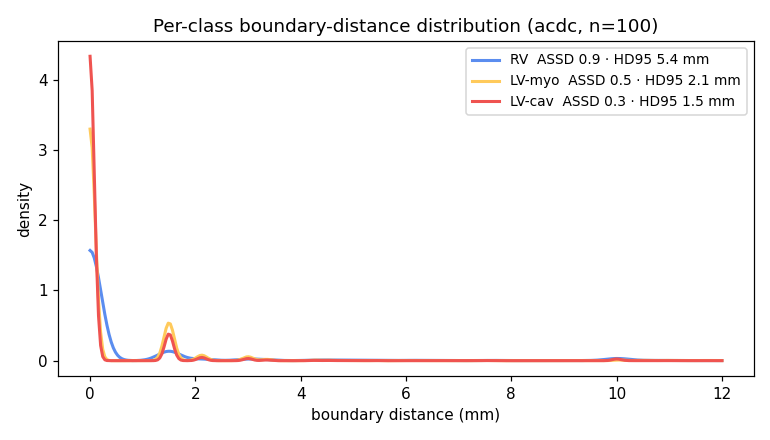
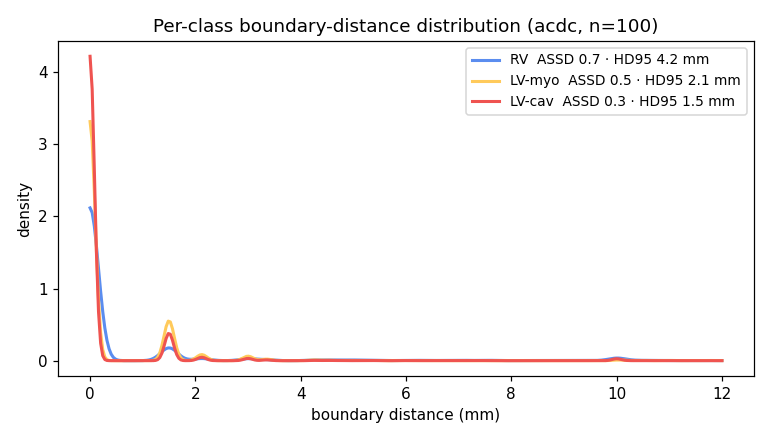
feat: early stopping + best-checkpoint; promote (RV 0.89, EF MAE 6.3%)
Per-epoch batched val-Dice drives early stopping (128 ceiling, patience 20, keep best). Answers
the epoch question empirically instead of hardcoding: best val at epoch ~95 (>80, <128), stopped
at 115. Promoted -> beats the 80ep flagship: mean 0.893->0.896, RV 0.881->0.892, EF MAE 6.7->6.3%,
bias -6.0->-5.6%, LoA +-19->+-15, RV HD95 5.4->4.2mm. Now ~1 Dice pt / 0.8 EF pts behind nnU-Net.

ONNX re-exported, web + plots regenerated, all tables synced. train.py: epochs default 128 (ceiling)
+ --patience; per-epoch val_dice logged.

diff --git a/cardioseg/training/train.py b/cardioseg/training/train.py
@@ -23,8 +23,27 @@ def _registry():
     }
 
 
-def train_seg(dataset="acdc", epochs=40, batch=32, lr=1e-3, size=256, n_patients=0,
-              val_frac=0.2, seed=0, device=None, out_dir=None, test=None, workers=6):
+def _val_dice(model, val_dl, device) -> float:
+    """Fast batched mean foreground Dice (pooled over val slices, no TTA) — the early-stop signal."""
+    import torch
+    import numpy as np
+
+    inter = {c: 0.0 for c in (1, 2, 3)}
+    denom = {c: 0.0 for c in (1, 2, 3)}
+    model.eval()
+    with torch.no_grad():
+        for x, y in val_dl:
+            x, y = x.to(device), y.to(device)
+            pred = model(x).argmax(1)
+            for c in (1, 2, 3):
+                p, g = pred == c, y == c
+                inter[c] += 2.0 * (p & g).sum().item()
+                denom[c] += (p.sum() + g.sum()).item()
+    return float(np.mean([inter[c] / denom[c] if denom[c] else 0.0 for c in (1, 2, 3)]))
+
+
+def train_seg(dataset="acdc", epochs=128, batch=32, lr=1e-3, size=256, n_patients=0,
+              val_frac=0.2, seed=0, device=None, out_dir=None, test=None, workers=6, patience=20):
     import numpy as np
     import torch
     from torch.utils.data import DataLoader
@@ -55,11 +74,15 @@ def train_seg(dataset="acdc", epochs=40, batch=32, lr=1e-3, size=256, n_patients
     dl = DataLoader(train_ds, batch_size=batch, shuffle=True, drop_last=True,
                     num_workers=workers, pin_memory=pin,
                     persistent_workers=workers > 0)   # cheap per-item path now -> GPU stays fed
+    val_dl = DataLoader(val_ds, batch_size=batch, num_workers=workers, pin_memory=pin)
     model = build_unet(spatial_dims=2, out_channels=4).to(device)
     loss_fn = dice_ce_loss()
     opt = torch.optim.Adam(model.parameters(), lr)
     scaler = torch.amp.GradScaler("cuda", enabled=pin)   # mixed precision
 
+    # `epochs` is a ceiling — early stopping keeps the best-val checkpoint and bails when val
+    # plateaus, so the heavy-aug "needs more epochs" question is answered per-run, not hardcoded.
+    best_dice, best_state, bad = -1.0, None, 0
     for ep in range(epochs):
         t0 = time.perf_counter()
         model.train()
@@ -77,7 +100,20 @@ def train_seg(dataset="acdc", epochs=40, batch=32, lr=1e-3, size=256, n_patients
             scaler.step(opt)
             scaler.update()
             tot += loss.item()
-        print(f"epoch {ep:2d}  train_loss {tot/len(dl):.4f}  ({time.perf_counter()-t0:.1f}s)")
+        vd = _val_dice(model, val_dl, device)                  # fast batched slice-Dice (no TTA)
+        improved = vd > best_dice + 1e-4
+        if improved:
+            best_dice, bad = vd, 0
+            best_state = {k: v.detach().cpu().clone() for k, v in model.state_dict().items()}
+        else:
+            bad += 1
+        print(f"epoch {ep:2d}  train_loss {tot/len(dl):.4f}  val_dice {vd:.4f}"
+              f"{' *' if improved else ''}  ({time.perf_counter()-t0:.1f}s)")
+        if bad >= patience:
+            print(f"early stop @ epoch {ep} (no val gain for {patience}); best val_dice {best_dice:.4f}")
+            break
+    if best_state is not None:
+        model.load_state_dict(best_state)                      # evaluate/ship the best, not the last
 
     print(f"\n===== VALIDATION ({dataset}) =====")
     dice_per_class, ef_rows = validate(model, val_dirs, size, device, loader=loader, cache_ns=ns)
@@ -105,7 +141,7 @@ def train_seg(dataset="acdc", epochs=40, batch=32, lr=1e-3, size=256, n_patients
 
 
 # Back-compat wrapper (README + tooling call this).
-def train_acdc(epochs=40, batch=32, lr=1e-3, size=256, n_patients=0,
+def train_acdc(epochs=128, batch=32, lr=1e-3, size=256, n_patients=0,
                val_frac=0.2, seed=0, device=None, out_dir="runs/acdc"):
     return train_seg("acdc", epochs=epochs, batch=batch, lr=lr, size=size,
                      n_patients=n_patients, val_frac=val_frac, seed=seed,
@@ -118,7 +154,8 @@ if __name__ == "__main__":
     ap.add_argument("--dataset", choices=["acdc", "mnm2"], default=None)
     ap.add_argument("--test", choices=["acdc", "mnm2", "none"], default="none",
                     help="held-out cross-dataset test set")
-    ap.add_argument("--epochs", type=int, default=40)
+    ap.add_argument("--epochs", type=int, default=128, help="ceiling; early stopping ends sooner")
+    ap.add_argument("--patience", type=int, default=20, help="early-stop patience (epochs w/o val gain)")
     ap.add_argument("--batch", type=int, default=32)
     ap.add_argument("--workers", type=int, default=6, help="DataLoader workers (0=main proc)")
     ap.add_argument("--n-patients", type=int, default=0, help="0=all")
@@ -132,4 +169,5 @@ if __name__ == "__main__":
     else:
         test = None if args.test == "none" else args.test
         train_seg(ds, epochs=args.epochs, batch=args.batch, workers=args.workers,
-                  n_patients=args.n_patients, seed=args.seed, out_dir=args.out, test=test)
+                  n_patients=args.n_patients, seed=args.seed, out_dir=args.out, test=test,
+                  patience=args.patience)

diff --git a/README.md b/README.md
@@ -35,23 +35,24 @@ set up for **domain generalization**: trained on multi-vendor **M&M-2** (360 sub
 
 ### Ejection fraction — the clinical output
 EF is the number a clinician acts on, so it's the result that matters. Cross-dataset
-(M&M-2 → ACDC, with heavy augmentation + largest-CC + test-time augmentation): **MAE 6.7%**,
-bias **−6.0%** (systematic underprediction), 95% LoA [−25, +13]. The chambers are right;
+(M&M-2 → ACDC, with heavy augmentation + early stopping + largest-CC + TTA): **MAE 6.3%**,
+bias **−5.6%** (systematic underprediction), 95% LoA [−21, +9]. The chambers are right;
 absolute volumes drift as calibration shifts across centres.
 
 ![EF Bland–Altman — M&M-2 model on held-out ACDC: error distribution + bias / 95% LoA](cardioseg/docs/media/ef_bland_altman.png)
 
-**Not clinically usable yet** — MAE 6.7% and LoA ±19 are still past the ±5% clinical bar. The
-plot splits the error in two: a systematic **−6.0% bias** (the curve sits left of zero —
+**Not clinically usable yet** — MAE 6.3% and LoA ±15 are still past the ±5% clinical bar. The
+plot splits the error in two: a systematic **−5.6% bias** (the curve sits left of zero —
 correctable) and a **spread** (tightened by the work below). EF is a *ratio* of two volumes,
-so it magnifies per-frame segmentation error — the masks are good (Dice 0.89), the derived number isn't.
+so it magnifies per-frame segmentation error — the masks are good (Dice 0.90), the derived number isn't.
 
 Paths from here, roughly in effort order:
 - ✅ **Largest-CC postprocessing** (applied) — dropping stray false-positive islands cut EF MAE
   9.4 → 8.2%, bias −8.9 → −7.2%, and collapsed the boundary HD (RV 191 → 59 mm). Free, no retrain.
 - ✅ **Test-time augmentation** (applied) — averaging over in-plane flips. Inference-time, no retrain.
-- ✅ **Heavy augmentation** (applied) — wider geometry + vendor-style intensity jitter (gamma /
-  contrast / blur), GPU-batched, 80 epochs. RV Dice 0.84 → 0.88, EF MAE 8.2 → **6.7%**, LoA ±27 → ±19.
+- ✅ **Heavy augmentation + early stopping** (applied) — wider geometry + vendor-style intensity
+  jitter (gamma / contrast / blur), GPU-batched; trained to a val-Dice plateau (~95 epochs, kept
+  the best checkpoint). RV Dice 0.84 → **0.89**, EF MAE 8.2 → **6.3%**, LoA ±27 → ±15.
 - **Cross-scanner intensity harmonization** — today it's per-volume z-score only; vendor-aware
   histogram standardization may tighten the spread. (Dice already transfers, so this is a smaller
   lever for EF than for segmentation — but it's the obvious gap.)
@@ -65,8 +66,8 @@ Per-structure Dice, M&M-2 → ACDC:
 |---|---|
 | LV cavity | **0.94** |
 | LV myocardium | 0.86 |
-| RV cavity | 0.88 |
-| **mean** | **0.89** |
+| RV cavity | 0.89 |
+| **mean** | **0.90** |
 
 Train it the other way — single-centre ACDC, tested across vendors — and it drops to **0.70**
 (RV 0.85 → 0.59). Diversity in training is what holds up; RV is the weak structure throughout.
@@ -78,17 +79,17 @@ nnU-Net as a *baseline*, not a dependency — quarantined in
 
 | segmenter | mean Dice | RV | EF MAE |
 |---|---|---|---|
-| ours (deployable / ONNX) | 0.89 | 0.88 | 6.7% |
+| ours (deployable / ONNX) | 0.90 | 0.89 | 6.3% |
 | nnU-Net (50 ep, 1 fold) | **0.91** | **0.91** | **5.5%** |
 
 nnU-Net still leads at its *floor* (full 1000-ep × 5-fold recipe goes higher), but the gap is
-now small — **RV +0.03**, **EF 6.7 → 5.5%** — and we deploy the simpler ONNX-exportable model on
+now small — **RV +0.02**, **EF 6.3 → 5.5%** — and we deploy the simpler ONNX-exportable model on
 purpose; the remaining levers are nnU-Net's recipe (instance norm, finer spacing, longer training).
 The segmenter is a commodity — the value is the shared measurement + evaluation that scored both.
 
 ## Honest limits — the clinical-grade gap
 Competent on public benchmarks, **not** clinical-grade. The specific gaps, measured rather than assumed:
-- **EF precision.** 95% LoA are ±19% — still past the ±5% clinical bar. And part of the
+- **EF precision.** 95% LoA are ±15% — still past the ±5% clinical bar. And part of the
   underprediction is *intrinsic*: even nnU-Net (SOTA) keeps a **−4% bias** cross-domain, so a better
   segmenter tightens the spread but doesn't erase the lean — it's calibration, not just model quality.
 - **Robustness is partial.** Multi-vendor generalization is *tested* (3 vendors, M&M-2 → ACDC), not

diff --git a/baselines/nnunet/README.md b/baselines/nnunet/README.md
@@ -52,19 +52,19 @@ patients / 200 frames), **scored by `cardioseg.evaluation`** — apples-to-apple
 
 | segmenter | mean Dice | LV-cav | myo | RV | EF MAE | notes |
 |---|---|---|---|---|---|---|
-| our 2D U-Net (+ heavy aug + largest-CC + TTA) | 0.893 | 0.942 | 0.856 | 0.881 | 6.7% | deployable / ONNX |
+| our 2D U-Net (+ heavy aug + early stop + largest-CC + TTA) | 0.896 | 0.941 | 0.855 | 0.892 | 6.3% | deployable / ONNX |
 | **nnU-Net** (50 ep, 1 fold) | **0.909** | 0.947 | 0.871 | **0.908** | **5.5%** | baseline / not deployed |
-| gain | +1.6 | +0.5 | +1.5 | **+2.7** | **−1.2** | |
+| gain | +1.3 | +0.6 | +1.6 | **+1.6** | **−0.8** | |
 
-**EF agreement (Bland–Altman):** ours bias −6.0%, 95% LoA [−25, +13]; nnU-Net bias **−4.1%**,
-LoA **[−17.8, +9.7]** — roughly **half the spread** and less bias. Both still *underpredict*
-(negative bias), so part of the cross-domain EF shift is intrinsic (calibration), not just model
-quality — but nnU-Net's tighter masks cut the random error a lot.
+**EF agreement (Bland–Altman):** ours bias −5.6%, 95% LoA [−21, +9]; nnU-Net bias **−4.1%**,
+LoA **[−17.8, +9.7]** — now nearly matched (our spread tightened as the masks improved; nnU-Net
+keeps a slight edge + a touch less bias). Both still *underpredict* (negative bias), so part of
+the cross-domain EF shift is intrinsic (calibration), not just model quality.
 
-**Read:** nnU-Net wins everything at only **50 epochs / 1 fold** (its floor — the full
-1000-epoch × 5-fold + TTA recipe goes higher). Biggest gains where it matters most:
-**RV +2.7** (the thin, domain-fragile structure the simple model is weakest on) and
-**EF MAE 6.7 → 5.5%** (better masks cut the systematic volume bias, so the *clinical
+**Read:** nnU-Net still leads at only **50 epochs / 1 fold** (its floor — the full 1000-epoch ×
+5-fold + TTA recipe goes higher), but the gap is small now:
+**RV +1.6** (the thin, domain-fragile structure the simple model is weakest on) and
+**EF MAE 6.3 → 5.5%** (better masks cut the systematic volume bias, so the *clinical
 number* improves, not just Dice). It hits **0.909 on ACDC trained on M&M-2** — near the
 in-domain ceiling (~0.91), cross-domain. (Both rows are each model's deployable output
 scored by the same eval; ours includes largest-CC + TTA, nnU-Net its own.)

diff --git a/cardioseg/README.md b/cardioseg/README.md
@@ -42,7 +42,7 @@ so one model spans both datasets.
 ## Train + evaluate
 ```bash
 # flagship: train multi-vendor M&M-2, hold ACDC out entirely as the test set
-python -m cardioseg.training.train --dataset mnm2 --test acdc --epochs 80   # -> runs/mnm2_to_acdc/ (heavy aug needs the epochs)
+python -m cardioseg.training.train --dataset mnm2 --test acdc   # -> runs/mnm2_to_acdc/ (128-ep ceiling, early-stops ~95)
 # single-centre baseline + its OOD drop on M&M-2 (the reverse direction)
 python -m cardioseg.training.train --dataset acdc --test mnm2 --epochs 40   # -> runs/acdc_to_mnm2/
 python -m cardioseg.evaluation.distribution --run runs/mnm2_to_acdc   # KDE + Bland-Altman -> plots/
@@ -52,16 +52,16 @@ Training auto-tunes for the GPU: DataLoader workers (`--workers`), mixed precisi
 
 ## Results (seed 0, patient-level splits)
 Flagship = **M&M-2 → ACDC** (train multi-vendor, test 100 held-out single-centre patients),
-with heavy augmentation (80 ep) + largest-CC postprocessing + test-time augmentation:
+with heavy augmentation + early stopping + largest-CC postprocessing + test-time augmentation:
 
 | structure | Dice | published ACDC |
 |---|---|---|
 | LV cavity | **0.94** | ~0.93–0.96 |
 | LV myocardium | 0.86 | ~0.88–0.92 |
-| RV cavity | 0.88 | ~0.88–0.92 |
-| **mean** | **0.89** | |
+| RV cavity | 0.89 | ~0.88–0.92 |
+| **mean** | **0.90** | |
 
-**EF vs GT: MAE 6.7%** (cross-dataset, bias −6.0%, 95% LoA [−25, +13]). **Diversity buys
+**EF vs GT: MAE 6.3%** (cross-dataset, bias −5.6%, 95% LoA [−21, +9]). **Diversity buys
 robustness — the asymmetry proves it:**
 
 | train → test | mean Dice | RV | EF MAE |
@@ -71,14 +71,14 @@ robustness — the asymmetry proves it:**
 | M&M-2 → ACDC (generalization, flagship) | 0.87 | 0.84 | 9.4% |
 
 *Asymmetry table is the base model (identical config across directions, for a fair A/B); heavy
-aug + largest-CC + TTA lift the flagship to 0.89 Dice / 6.7% EF (top table).*
+aug + largest-CC + TTA lift the flagship to 0.90 Dice / 6.3% EF (top table).*
 
 - Single-centre training loses ~17 Dice points off its home dataset (RV collapses 0.85 → 0.59);
   multi-vendor training carries to a new centre with **no segmentation drop**.
 - **EF transfers worse than Dice** — volume calibration shifts across centres (in-domain EF MAE
   4.7% → cross-dataset ~9%); the chambers are right, the absolute mL drift.
 - **Surface metrics** (flagship eval): by Dice RV > myo, but by boundary (HD95) RV is
-  *worst* (~5.4 mm) — Dice punishes the thin myo ring, RV's boundary is messy (basal slices + stray
+  *worst* (~4.2 mm) — Dice punishes the thin myo ring, RV's boundary is messy (basal slices + stray
   voxels). Full HD is the fragile max (one stray voxel → ~200 mm); **HD95** is the robust report.
 - `runs/<run>/plots/`: per-class boundary-distance **KDE** + EF **Bland–Altman** (flagship below).
 

diff --git a/ROADMAP.md b/ROADMAP.md
@@ -31,9 +31,10 @@ The cross-dataset EF is the honest weak spot; the roadmap out of it, in effort o
 1. ✅ **Postprocess masks** (largest-CC) — dropped false-positive specks: EF MAE 9.4 → 8.2%,
    bias −8.9 → −7.2%, HD RV 191 → 59 mm. Eval-only.
 2. ✅ **Test-time augmentation** — in-plane flip averaging at inference, no retrain.
-3. ✅ **Heavy augmentation** (GPU-batched, 80 ep) — wider geometry + vendor-style intensity jitter:
-   RV Dice 0.84 → 0.88, mean 0.87 → 0.89, EF MAE 8.2 → **6.7%**, LoA ±27 → ±19. Now ~1 Dice pt /
-   1.2 EF pts behind nnU-Net SOTA, on a deployable ONNX model.
+3. ✅ **Heavy augmentation + early stopping** (GPU-batched) — wider geometry + vendor-style
+   intensity jitter; trained to a val-Dice plateau (~95 ep, best checkpoint kept). RV Dice
+   0.84 → **0.89**, mean 0.87 → **0.90**, EF MAE 8.2 → **6.3%**, LoA ±27 → ±15. Now ~1 Dice pt /
+   0.8 EF pts behind nnU-Net SOTA, on a deployable ONNX model.
 4. ⬜ **Cross-scanner intensity harmonization** — today it's per-volume z-score only;
    vendor-aware histogram standardization may tighten the spread. (`bd cardiac-seg-qfz`)
 5. ⬜ **Bias calibration** — held-out linear EF correction, reported as such.